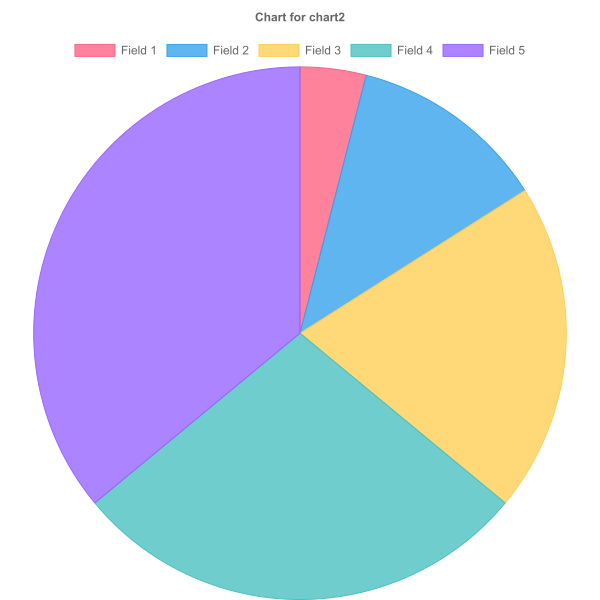
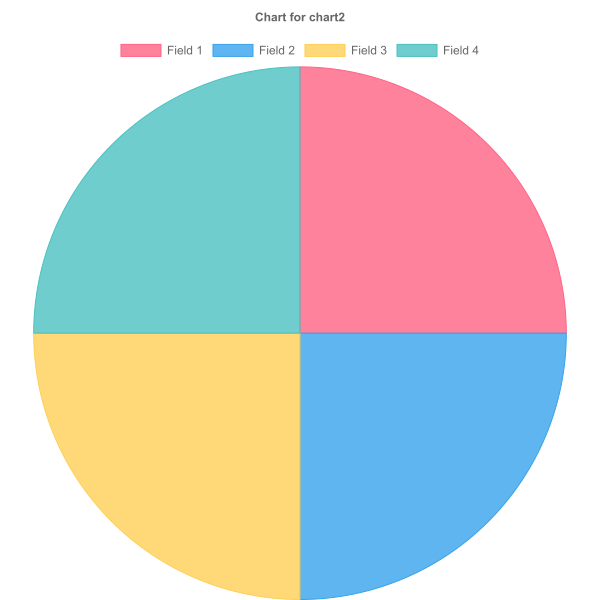
handle charts with less then 5 values

diff --git a/src/index.ts b/src/index.ts
@@ -12,52 +12,58 @@ interface ChartRow {
 }
 
 const processRow = async (row: ChartRow) => {
-    // Determine keys from the row object
-    // Assuming CSV doesn't have headers, csv-parser might generate keys like '0', '1', etc. 
-    // OR if we treat it as headerless, we get array of values.
-    // Let's inspect how we read it. If we use headers: false.
+    // Row is now an object with keys matching CSV headers
+    const filename = row['Filename'];
 
-    const values = Object.values(row);
-    if (values.length < 6) {
-        console.error(`Invalid row, not enough columns: ${JSON.stringify(row)}`);
+    // Extract values for Field1 through Field5, filtering out invalid numbers
+    const possibleValues = [
+        row['Field1'],
+        row['Field2'],
+        row['Field3'],
+        row['Field4'],
+        row['Field5']
+    ];
+
+    const dataValues = possibleValues
+        .map(v => v ? parseFloat(v) : NaN)
+        .filter(v => !isNaN(v));
+
+    if (!filename || dataValues.length === 0) {
+        console.error(`Invalid row data (need at least 1 valid value): ${JSON.stringify(row)}`);
         return;
     }
 
-    const filename = values[0];
-    const dataValues = values.slice(1, 6).map(v => parseFloat(v));
-
-    if (dataValues.some(isNaN)) {
-        console.error(`Invalid data in row for ${filename}: ${JSON.stringify(values)}`);
-        return;
-    }
+    const allLabels = ['Field 1', 'Field 2', 'Field 3', 'Field 4', 'Field 5'];
+    const allBackgroundColors = [
+        'rgba(255, 99, 132, 0.8)',
+        'rgba(54, 162, 235, 0.8)',
+        'rgba(255, 206, 86, 0.8)',
+        'rgba(75, 192, 192, 0.8)',
+        'rgba(153, 102, 255, 0.8)',
+    ];
+    const allBorderColors = [
+        'rgba(255, 99, 132, 1)',
+        'rgba(54, 162, 235, 1)',
+        'rgba(255, 206, 86, 1)',
+        'rgba(75, 192, 192, 1)',
+        'rgba(153, 102, 255, 1)',
+    ];
 
     const configuration = {
         type: 'pie' as const,
         data: {
-            labels: ['Field 1', 'Field 2', 'Field 3', 'Field 4', 'Field 5'],
+            labels: allLabels.slice(0, dataValues.length),
             datasets: [{
                 data: dataValues,
-                backgroundColor: [
-                    'rgba(255, 99, 132, 0.8)',
-                    'rgba(54, 162, 235, 0.8)',
-                    'rgba(255, 206, 86, 0.8)',
-                    'rgba(75, 192, 192, 0.8)',
-                    'rgba(153, 102, 255, 0.8)',
-                ],
-                borderColor: [
-                    'rgba(255, 99, 132, 1)',
-                    'rgba(54, 162, 235, 1)',
-                    'rgba(255, 206, 86, 1)',
-                    'rgba(75, 192, 192, 1)',
-                    'rgba(153, 102, 255, 1)',
-                ],
+                backgroundColor: allBackgroundColors.slice(0, dataValues.length),
+                borderColor: allBorderColors.slice(0, dataValues.length),
                 borderWidth: 1
             }]
         },
         options: {
             plugins: {
                 legend: {
-                    display: true
+                    display: false
                 },
                 title: {
                     display: true,
@@ -76,7 +82,7 @@ const processRow = async (row: ChartRow) => {
 const results: ChartRow[] = [];
 
 fs.createReadStream(path.join(__dirname, '..', 'data', 'charts.csv'))
-    .pipe(csv({ headers: false }))
+    .pipe(csv()) // Default (headers: true)
     .on('data', (data) => results.push(data))
     .on('end', async () => {
         for (const row of results) {
